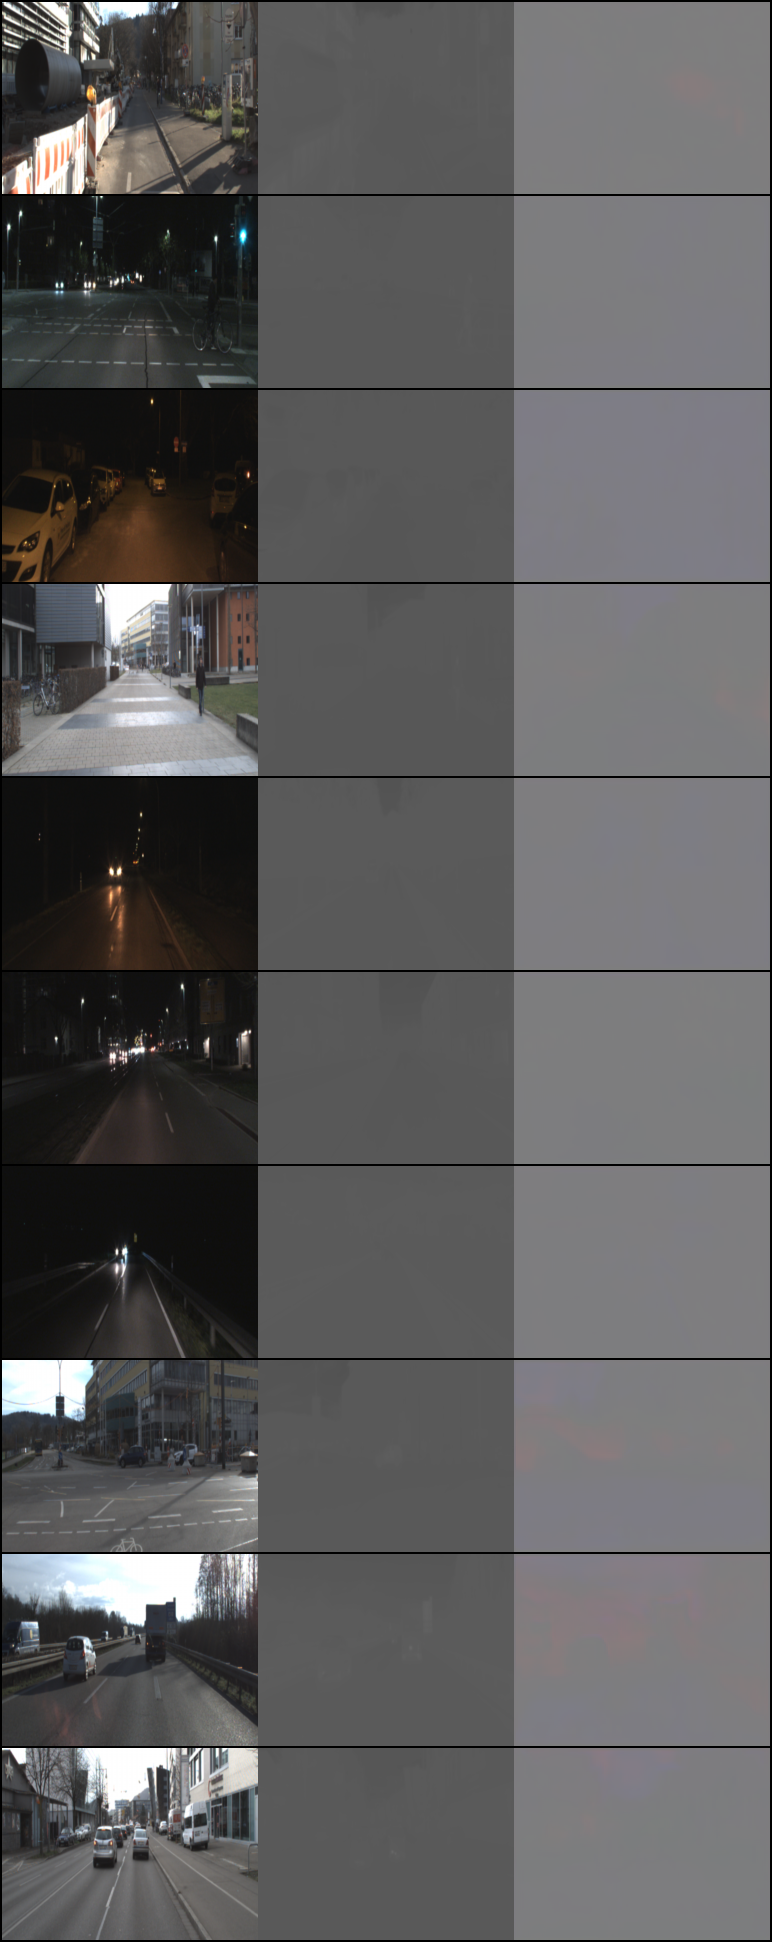
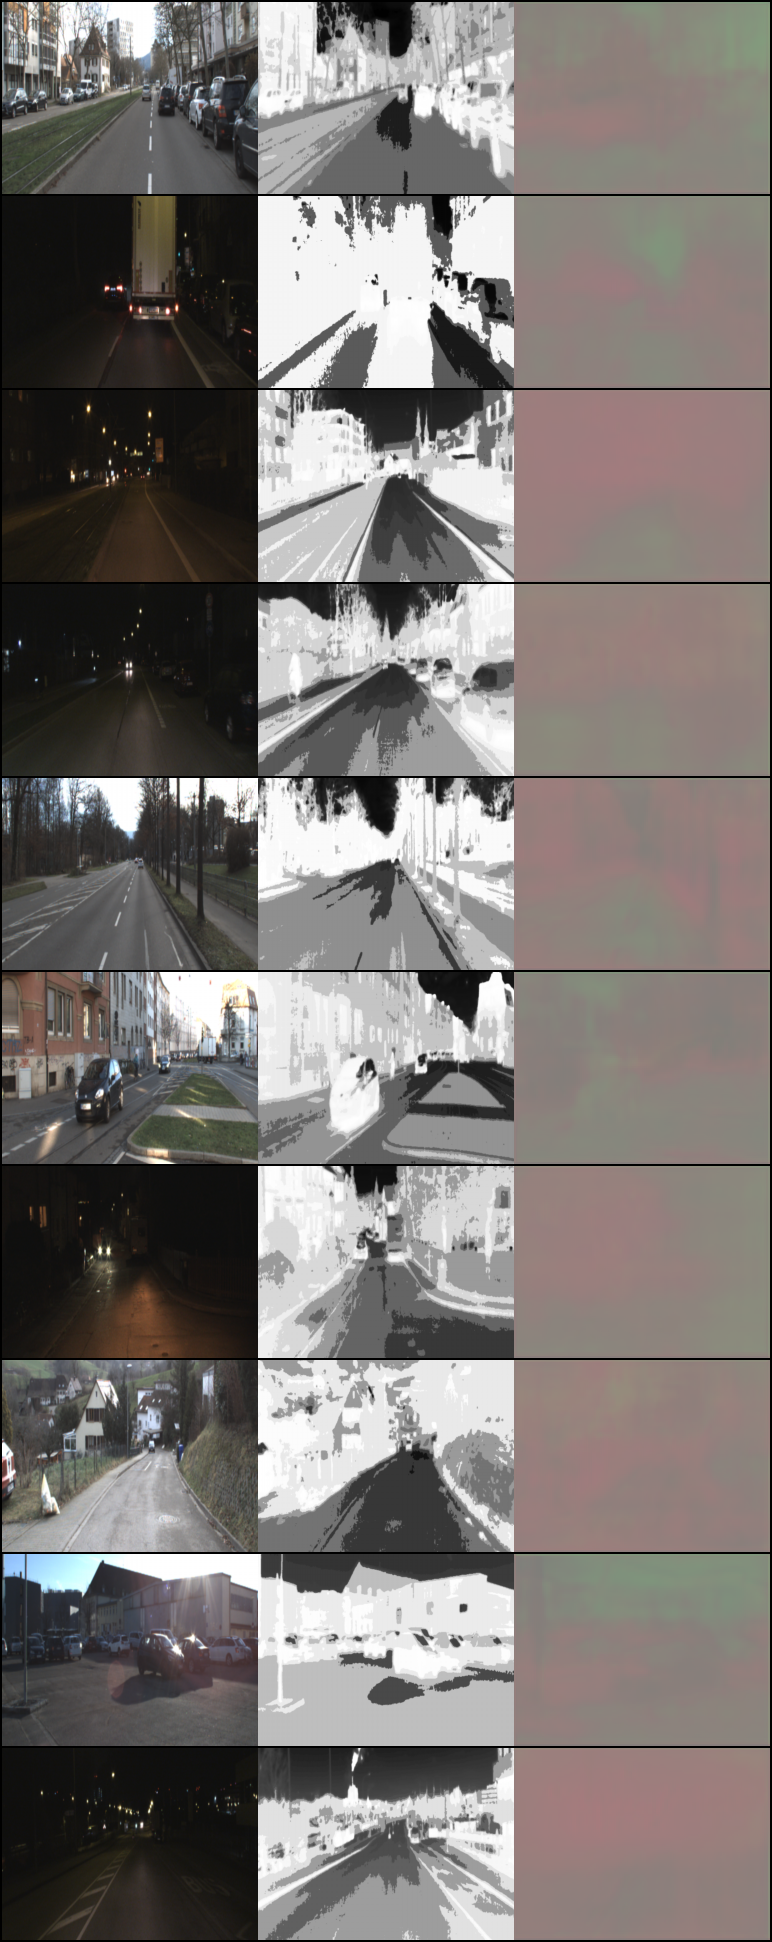
modified:   Model/LadleNet+/LadleNet+ copy.py 	modified:   Model/LadleNet+/LadleNet+.py 	modified:   Model/LadleNet+/test_output_input_grid.png 	modified:   Model/LadleNet/LadleNet.py

diff --git a/Model/LadleNet/LadleNet.py b/Model/LadleNet/LadleNet.py
@@ -18,6 +18,7 @@ from torch.utils.data import Subset
 from torch.utils.data import Dataset
 from skimage import io
 import skimage
+from skimage import exposure, img_as_ubyte
 import os
 import cv2
 import datetime
@@ -308,12 +309,27 @@ class Dataset_creat(Dataset):
         VI_dic = os.path.join(self.VI_path, self.filename_VI[idx])
             
         # TODO: NEW WAY TO LOAD IMAGES
-        img_IR = cv2.imread(IR_dic, cv2.IMREAD_UNCHANGED).astype(np.float32) / 65535.0
-        img_IR = np.expand_dims(img_IR, axis=2)
-        img_IR = np.repeat(img_IR, 3, axis=2)
+        try:
+            img_IR = cv2.imread(IR_dic, -1)
+            if img_IR is None:
+                print(f"Failed to load image {IR_dic}")
+                return (None, None)
+            img_IR = img_as_ubyte(exposure.rescale_intensity(img_IR))
+            img_IR = cv2.equalizeHist(img_IR)
+            img_IR = cv2.merge((img_IR, img_IR, img_IR))
+        except Exception as e:
+            print(f"Failed to load image {IR_dic}: {e}")
+            return (None, None)
 
-        img_VI = cv2.imread(VI_dic, cv2.IMREAD_UNCHANGED)
-        img_VI = cv2.cvtColor(img_VI, cv2.COLOR_BGR2RGB).astype(np.float32) / 255.0
+        try:
+            img_VI = cv2.imread(VI_dic, -1)
+            if img_VI is None or img_VI.shape[0] == 0:
+                print(f"Failed to load image {VI_dic}")
+                return (None, None)
+            img_VI = cv2.cvtColor(img_VI, cv2.COLOR_BGR2RGB).astype(np.float32) / 255.0
+        except Exception as e:
+            print(f"Failed to load image {VI_dic}: {e}")
+            return (None, None)
 
         if self.transform != None:
             img_IR = self.transform(img_IR)
@@ -325,6 +341,10 @@ class Dataset_creat(Dataset):
                 
         package = (img_IR,img_VI)
         return package
+
+def collate_fn(batch):
+    batch = list(filter(lambda x: x[0] is not None and x[1] is not None, batch))
+    return torch.utils.data.dataloader.default_collate(batch)
 
 batch_size = 40
 num_epochs = 30
@@ -347,8 +367,8 @@ test_size = len(dataset) - train_size
 
 train_dataset, test_dataset = random_split(dataset, [train_size, test_size])
 
-train_loader = DataLoader(train_dataset, batch_size=batch_size, shuffle=True, drop_last=True)
-val_loader = DataLoader(test_dataset, batch_size=batch_size, shuffle=False, drop_last=True)
+train_loader = DataLoader(train_dataset, batch_size=batch_size, shuffle=True, drop_last=True, collate_fn=collate_fn)
+val_loader = DataLoader(test_dataset, batch_size=batch_size, shuffle=False, drop_last=True, collate_fn=collate_fn)
 
 device = torch.device('cuda' if torch.cuda.is_available() else 'cpu')
 model = LadleNet()
@@ -448,7 +468,7 @@ for epoch in range(num_epochs):
     # TODO: Save the images
     processed_images = []
     for ir_img, output_img, vi_img in sample_images:
-        ir_img = torch.tensor((ir_img * 255).astype(np.uint8))
+        ir_img = torch.tensor((ir_img).astype(np.uint8))
         vi_img = torch.tensor((vi_img * 255).astype(np.uint8))
         output_img = torch.tensor(((output_img + 1) / 2 * 255).astype(np.uint8))
 

diff --git a/Model/LadleNet+/LadleNet+ copy.py b/Model/LadleNet+/LadleNet+ copy.py
@@ -18,6 +18,7 @@ from torch.utils.data import Subset
 from torch.utils.data import Dataset
 from skimage import io
 import skimage
+from skimage import exposure, img_as_ubyte
 import os
 import cv2
 import datetime
@@ -225,12 +226,27 @@ class Dataset_creat(Dataset):
         VI_dic = os.path.join(self.VI_path, self.filename_VI[idx])
         
         # TODO: NEW WAY TO LOAD IMAGES
-        img_IR = cv2.imread(IR_dic, cv2.IMREAD_UNCHANGED).astype(np.float32) / 65535.0
-        img_IR = np.expand_dims(img_IR, axis=2)
-        img_IR = np.repeat(img_IR, 3, axis=2)
+        try:
+            img_IR = cv2.imread(IR_dic, -1)
+            if img_IR is None:
+                print(f"Failed to load image {IR_dic}")
+                return (None, None)
+            img_IR = img_as_ubyte(exposure.rescale_intensity(img_IR))
+            img_IR = cv2.equalizeHist(img_IR)
+            img_IR = cv2.merge((img_IR, img_IR, img_IR))
+        except Exception as e:
+            print(f"Failed to load image {IR_dic}: {e}")
+            return (None, None)
 
-        img_VI = cv2.imread(VI_dic, cv2.IMREAD_UNCHANGED)
-        img_VI = cv2.cvtColor(img_VI, cv2.COLOR_BGR2RGB).astype(np.float32) / 255.0
+        try:
+            img_VI = cv2.imread(VI_dic, -1)
+            if img_VI is None or img_VI.shape[0] == 0:
+                print(f"Failed to load image {VI_dic}")
+                return (None, None)
+            img_VI = cv2.cvtColor(img_VI, cv2.COLOR_BGR2RGB).astype(np.float32) / 255.0
+        except Exception as e:
+            print(f"Failed to load image {VI_dic}: {e}")
+            return (None, None)
         
         if self.transform != None:
             img_IR = self.transform(img_IR)
@@ -242,6 +258,10 @@ class Dataset_creat(Dataset):
                 
         package = (img_IR, img_VI)
         return package
+
+def collate_fn(batch):
+    batch = list(filter(lambda x: x[0] is not None and x[1] is not None, batch))
+    return torch.utils.data.dataloader.default_collate(batch)
 
 batch_size = 10  # 56 
 num_epochs = 50
@@ -264,8 +284,8 @@ test_size = len(dataset) - train_size
 
 train_dataset, test_dataset = random_split(dataset, [train_size, test_size])
 
-train_loader = DataLoader(train_dataset, batch_size=batch_size, shuffle=True, drop_last=True)
-val_loader = DataLoader(test_dataset, batch_size=batch_size, shuffle=False, drop_last=True)
+train_loader = DataLoader(train_dataset, batch_size=batch_size, shuffle=True, drop_last=True, collate_fn=collate_fn)
+val_loader = DataLoader(test_dataset, batch_size=batch_size, shuffle=False, drop_last=True, collate_fn=collate_fn)
 
 device = torch.device('cuda' if torch.cuda.is_available() else 'cpu')
 model = LadleNet_plus()
@@ -333,6 +353,7 @@ for ir_inputs, vi_inputs in train_loader:
 
 processed_images = []
 for ir_img, output_img, vi_img in sample_images:
+    # need to convert from 1 channel to 3 the ir_image
     ir_img = torch.tensor((ir_img * 255).astype(np.uint8))
     vi_img = torch.tensor((vi_img * 255).astype(np.uint8))
     output_img = torch.tensor(((output_img + 1) / 2 * 255).astype(np.uint8))

diff --git a/Model/LadleNet+/LadleNet+.py b/Model/LadleNet+/LadleNet+.py
@@ -241,19 +241,26 @@ class Dataset_creat(Dataset):
         # img_IR = np.expand_dims(img_IR, axis=2)
         # img_IR = np.repeat(img_IR, 3, axis=2)
         try:
-            image = cv2.imread(IR_dic, -1)  # -1 means read as is, no conversions.
-            image = img_as_ubyte(exposure.rescale_intensity(image))
-            img_IR = cv2.equalizeHist(image)
-            img_IR = cv2.cvtColor(img_IR, cv2.COLOR_BGR2RGB)
-
-            img_VI = cv2.imread(VI_dic, cv2.IMREAD_UNCHANGED)
-            img_VI = cv2.cvtColor(img_VI, cv2.COLOR_BGR2RGB).astype(np.float32) / 255.0
-
+            img_IR = cv2.imread(IR_dic, -1)
+            if img_IR is None:
+                print(f"Failed to load image {IR_dic}")
+                return (None, None)
+            img_IR = img_as_ubyte(exposure.rescale_intensity(img_IR))
+            img_IR = cv2.equalizeHist(img_IR)
+            img_IR = cv2.merge((img_IR, img_IR, img_IR))
         except Exception as e:
-            print(f"Error reading image: {e}")
-            print(f"IR_dic: {IR_dic}")
-            print(f"VI_dic: {VI_dic}")
-            return None
+            print(f"Failed to load image {IR_dic}: {e}")
+            return (None, None)
+
+        try:
+            img_VI = cv2.imread(VI_dic, -1)
+            if img_VI is None or img_VI.shape[0] == 0:
+                print(f"Failed to load image {VI_dic}")
+                return (None, None)
+            img_VI = cv2.cvtColor(img_VI, cv2.COLOR_BGR2RGB).astype(np.float32) / 255.0
+        except Exception as e:
+            print(f"Failed to load image {VI_dic}: {e}")
+            return (None, None)
 
         if self.transform != None:
             img_IR = self.transform(img_IR)
@@ -265,6 +272,10 @@ class Dataset_creat(Dataset):
                 
         package = (img_IR,img_VI)
         return package
+
+def collate_fn(batch):
+    batch = list(filter(lambda x: x[0] is not None and x[1] is not None, batch))
+    return torch.utils.data.dataloader.default_collate(batch)
 
 # accelerator = Accelerator()
 
@@ -289,8 +300,8 @@ test_size = len(dataset) - train_size
 
 train_dataset, test_dataset = random_split(dataset, [train_size, test_size])
 
-train_loader = DataLoader(train_dataset, batch_size=batch_size, shuffle=True, drop_last=True)
-val_loader = DataLoader(test_dataset, batch_size=batch_size, shuffle=False, drop_last=True)
+train_loader = DataLoader(train_dataset, batch_size=batch_size, shuffle=True, drop_last=True, collate_fn=collate_fn)
+val_loader = DataLoader(test_dataset, batch_size=batch_size, shuffle=False, drop_last=True, collate_fn=collate_fn)
 
 device = torch.device('cuda' if torch.cuda.is_available() else 'cpu')
 
